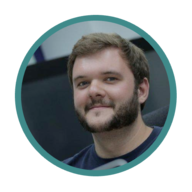
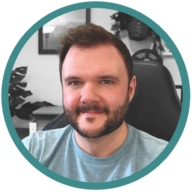
Update profile picture

diff --git a/content/about/index.md b/content/about/index.md
@@ -21,7 +21,9 @@ _Note: This page may be updated from time to time._
 
 ## My current profile picture
 
-![Jacob Tomlinson Profile Picture](https://i.imgur.com/HT8Jc4N.jpg)
+<div style="width: 100%; text-align: center;">
+<img src=../../profile.jpeg width=50% />
+</div>
 
 ## General bio's of various lengths
 
